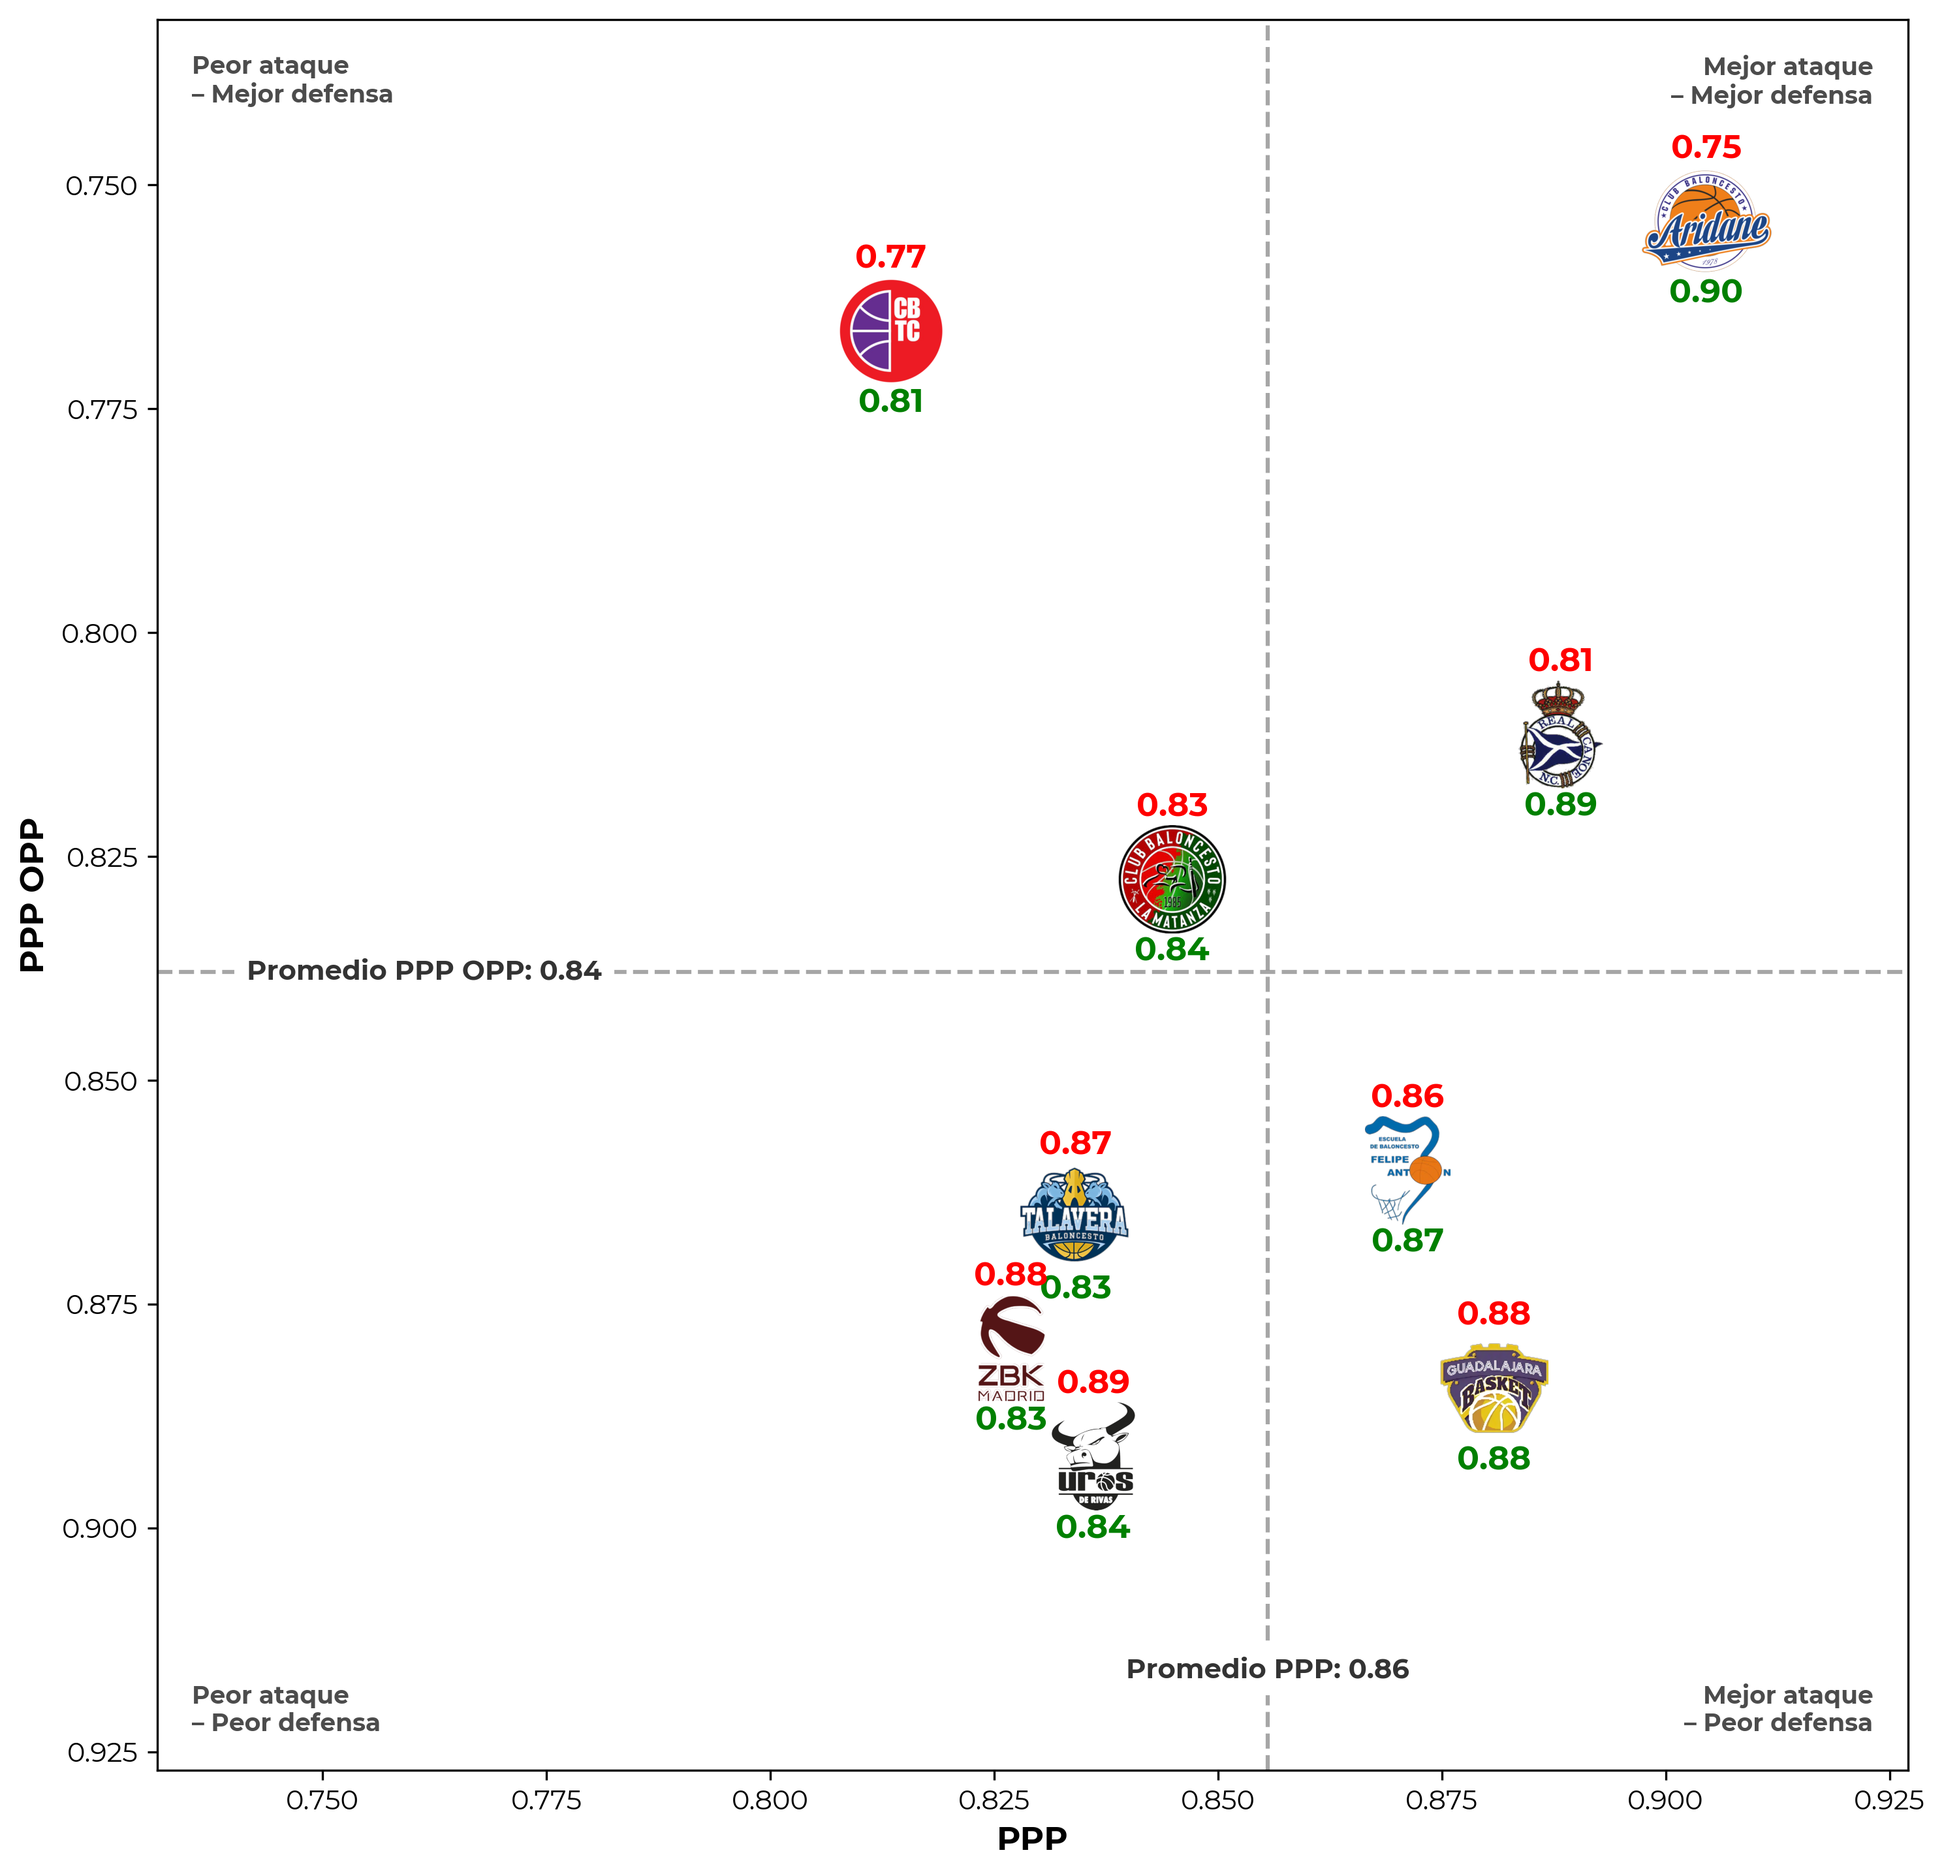
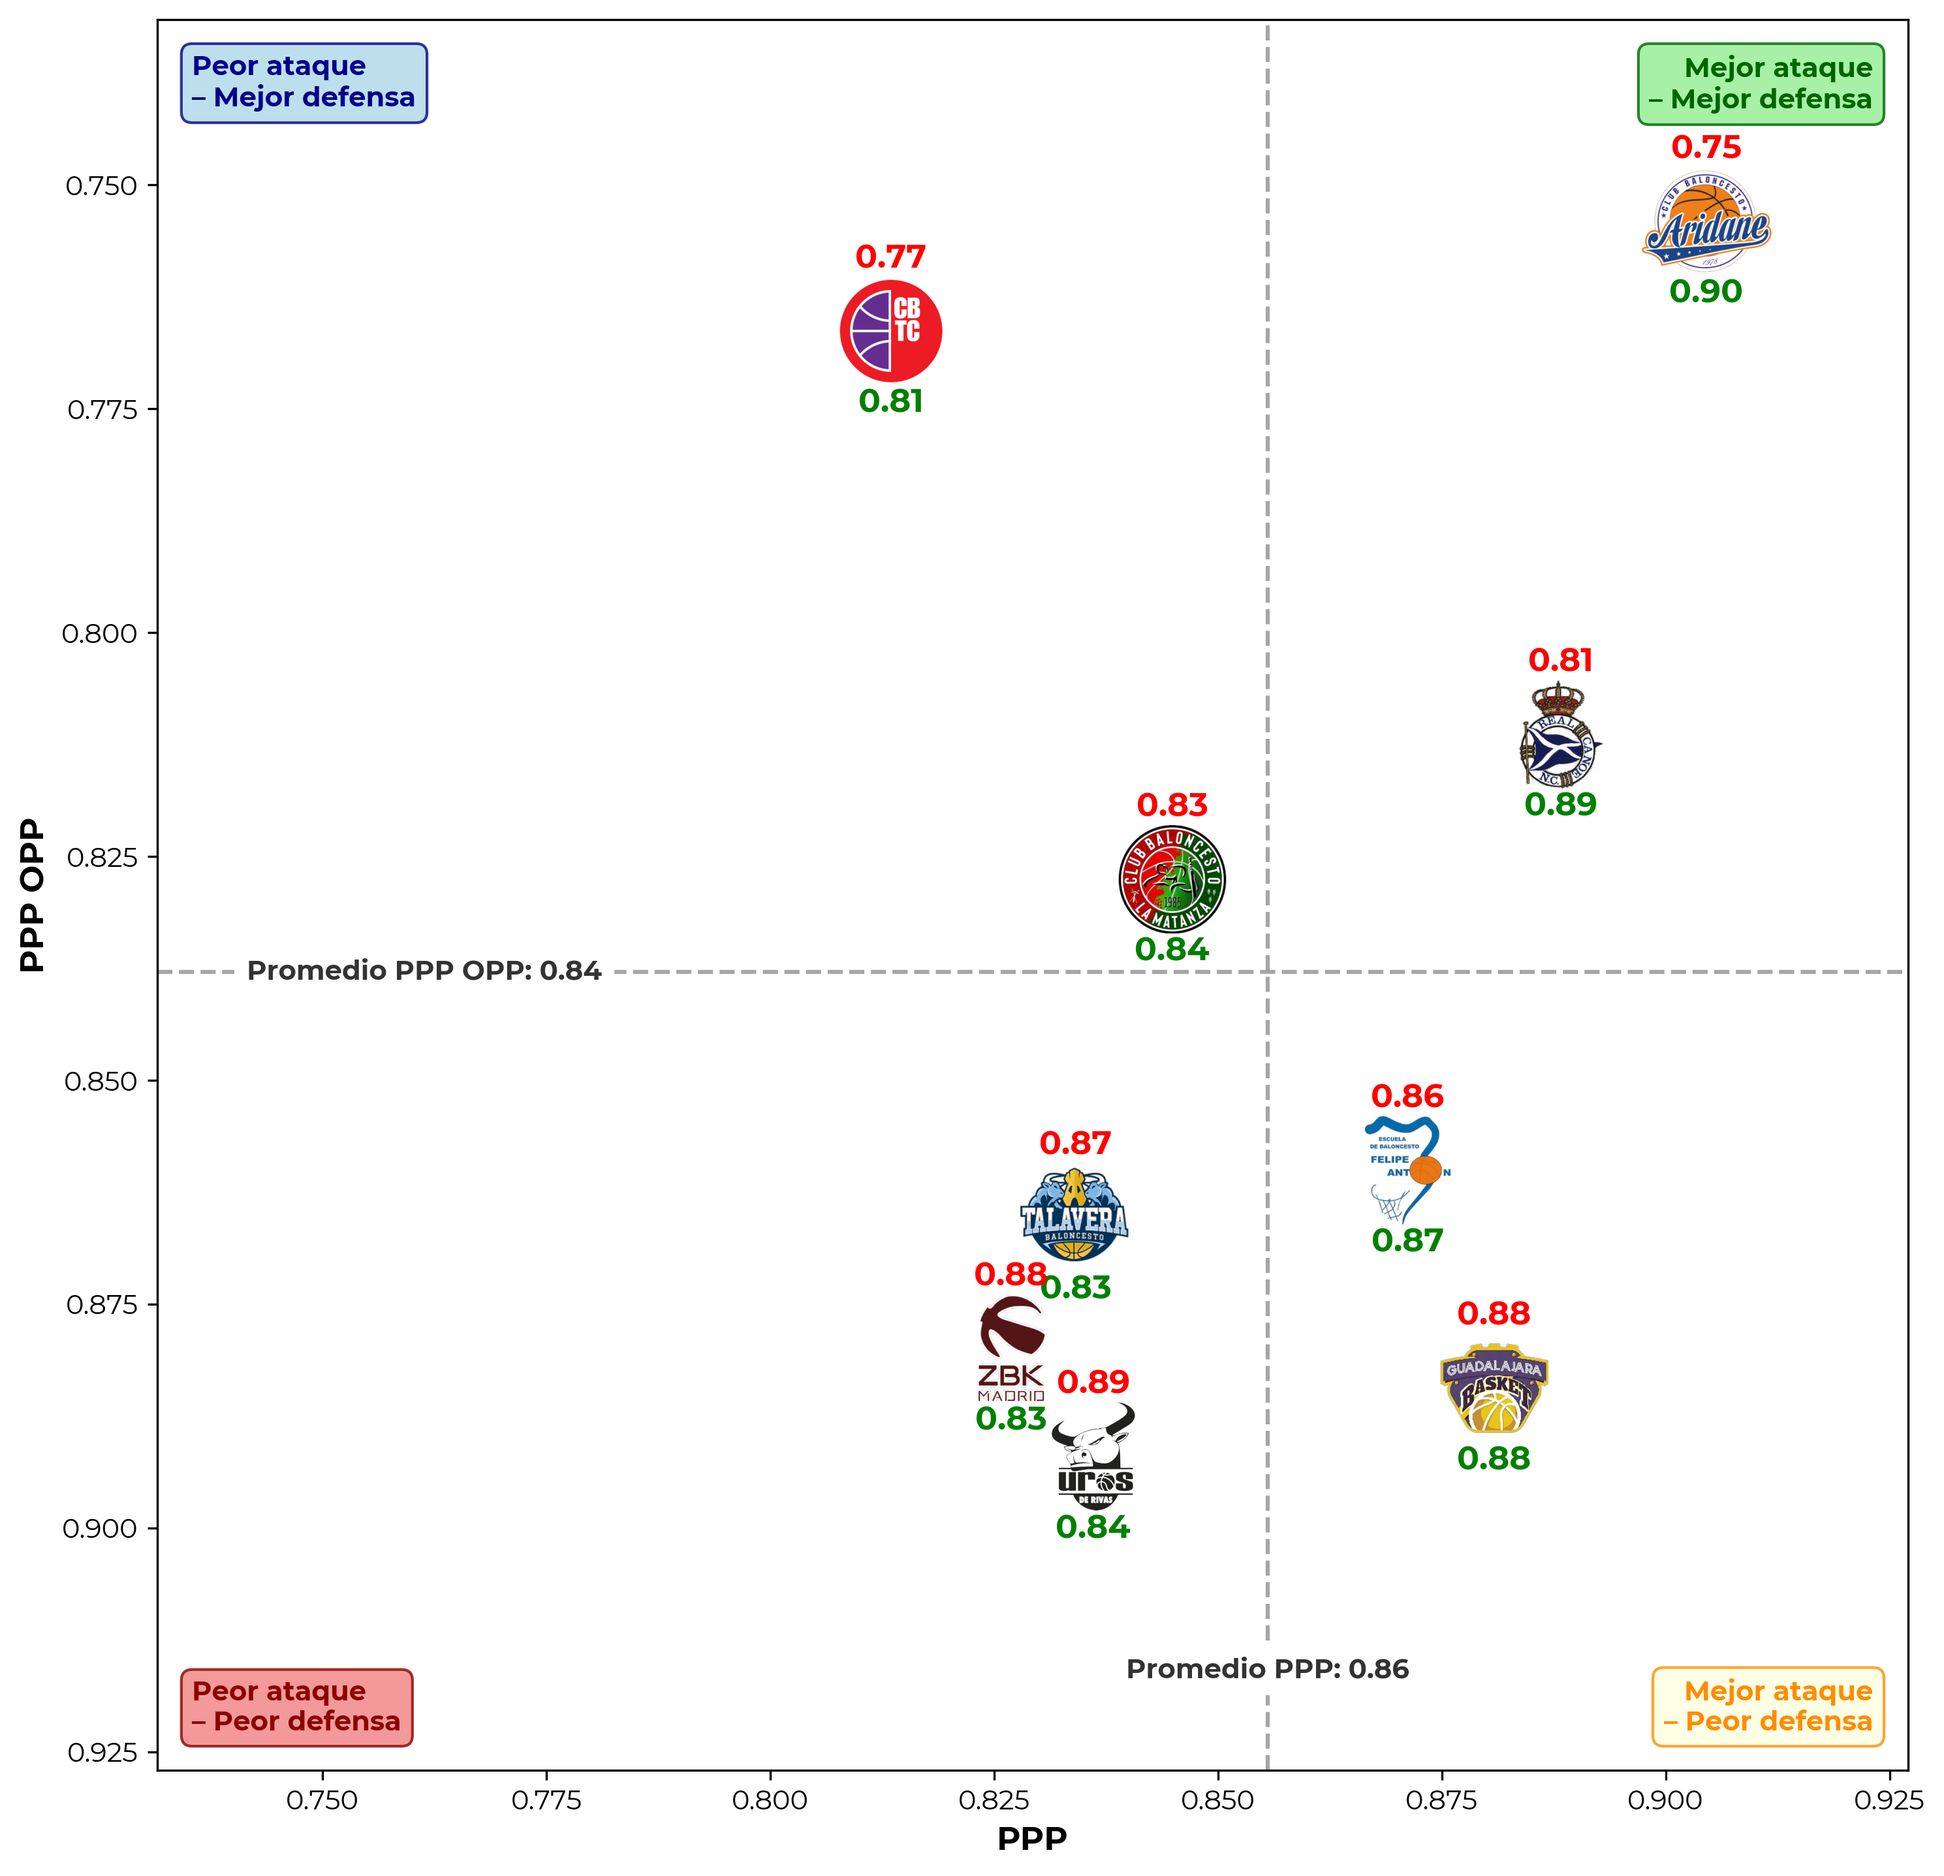
Refactor code structure for improved readability and maintainability

diff --git a/team_report/tools/rebound_analysis.py b/team_report/tools/rebound_analysis.py
@@ -1,0 +1,133 @@
+import os
+import textwrap
+import numpy as np
+import pandas as pd
+import matplotlib.pyplot as plt
+from matplotlib.patches import Patch
+from PIL import Image
+
+from utils import get_team_logo, setup_montserrat_font
+
+def generate_team_rebound_analysis(
+    df: pd.DataFrame,
+    teams: list[str] | None = None,
+    phase: str | None = None
+):
+    """
+    Gráfica de Análisis del Rebote (%) por equipo:
+    Para cada equipo, tres barras horizontales (una por %OREB, %REB, %DREB),
+    ejes de 0 a 1, con nombres y logos a la izquierda.
+    """
+    # Montserrat
+    setup_montserrat_font()
+
+    # Filtrar
+    if phase is not None:
+        df = df[df['FASE'] == phase]
+    if teams is not None:
+        df = df[df['EQUIPO'].isin(teams)]
+
+    # Agregar medias por equipo
+    stats = df.groupby('EQUIPO')[['%OREB','%REB','%DREB']].mean()
+    stats = stats.sort_values('EQUIPO', ascending=True)
+
+    # Wrapped team names
+    max_chars = 18
+    wrapped = {
+        team: '\n'.join(textwrap.wrap(team, max_chars))
+        for team in stats.index
+    }
+
+    # Colors & legend labels
+    metrics = ['%DREB','%REB','%OREB']
+    colors  = ['#3498DB','#E74C3C','#F39C12']  # naranja, rojo, azul
+    labels  = ['Rebote Ofensivo %','Rebotes Totales %','Rebote Defensivo %']
+
+    n = len(stats)
+    fig = plt.figure(figsize=(16, n*1.2))
+    gs = fig.add_gridspec(1,3, width_ratios=[1.0,0.6,4], wspace=0.02)
+
+    ax_text = fig.add_subplot(gs[0]); ax_text.axis('off')
+    ax_logo = fig.add_subplot(gs[1]); ax_logo.axis('off')
+    ax_bar  = fig.add_subplot(gs[2]); ax_bar.axis('off')
+
+    # Shared y-scale [0..n-1]
+    ax_text.set_ylim(-0.5, n-0.5)
+    ax_logo.set_ylim(-0.5, n-0.5)
+    ax_bar.set_ylim(-0.5, n-0.5)
+    # x-range fixed 0..1
+    ax_bar.set_xlim(0,1)
+
+    # Add vertical grid lines at every 10%
+    for x in [0.1, 0.2, 0.3, 0.4, 0.5, 0.6, 0.7, 0.8, 0.9]:
+        ax_bar.axvline(x, color='lightgray', linestyle='--', alpha=0.5, linewidth=1)
+
+    # Title + legend
+    fig.suptitle('Análisis del Rebote (%)', fontsize=32, weight='bold', y=0.96)
+    patches = [Patch(color=c,label=l) for c,l in zip(colors,labels)]
+    ax_bar.legend(handles=patches,
+                  loc='upper center',
+                  bbox_to_anchor=(0.5,1.05),
+                  ncol=3, frameon=False, fontsize=14)
+
+    # Bar settings
+    bar_height = 0.3  # Increased from 0.25 to make bars a little bit thicker
+    offsets = [ bar_height, 0, -bar_height ]  # three rows per team
+
+    # Plot each team
+    for i,(team,row) in enumerate(stats.iterrows()):
+        y_center = n-1-i
+
+        # 1) Team name
+        ax_text.text(0.01, y_center, wrapped[team],
+                     va='center', ha='left', fontsize=15)
+
+        # 2) Logo
+        logo = get_team_logo(team)
+        if logo is not None:
+            ar = logo.width/logo.height
+            h = 0.8  # height in data units
+            w = h*ar
+            pix_h = int(h*fig.dpi)
+            pix_w = int(w*fig.dpi)
+            logo_small = logo.resize((pix_w,pix_h), Image.Resampling.LANCZOS)
+            logo_arr = np.array(logo_small)
+            y0 = y_center - h/2
+            y1 = y_center + h/2
+            x0 = 0.5-w/2
+            x1 = 0.5+w/2
+            ax_logo.imshow(logo_arr, extent=[x0,x1,y0,y1], aspect='equal')
+
+        # 3) Three bars
+        for off, m, c in zip(offsets, metrics, colors):
+            y = y_center + off
+            val = row[m]
+            ax_bar.barh(y, val, height=bar_height*0.95, color=c, edgecolor='white')  # Increased from 0.9 to 0.95
+            # Move text inside the bar, positioned at 50% of bar width
+            ax_bar.text(val/2, y, f"{row[m]*100:.2f}%",
+                        va='center', ha='center', color='white', fontsize=14, weight='bold')  # Changed to white, centered, bold
+
+    plt.tight_layout()
+    return fig
+
+
+if __name__ == '__main__':
+    # Ejemplo de uso:
+    FILE = './data/teams_aggregated.xlsx'
+    MIS_EQUIPOS = ['BALONCESTO TALAVERA', 'C.B. TRES CANTOS', 'CB ARIDANE',
+                   'CB LA MATANZA', 'EB FELIPE ANTÓN', 'LUJISA GUADALAJARA BASKET',
+                   'REAL CANOE N.C.', 'UROS DE RIVAS', 'ZENTRO BASKET MADRID'
+    ]
+
+    FASE = "Liga Regular \"B-A\""
+    df = pd.read_excel(FILE)
+
+    board = generate_team_rebound_analysis(df, teams=MIS_EQUIPOS, phase=None)
+    # save the figure
+    board.savefig('rebound_analysis.png', 
+              bbox_inches='tight', 
+              dpi=300,                    # High resolution
+              facecolor='white',          # White background
+              edgecolor='none',           # No edge color
+              format='png')               # PNG format
+

diff --git a/team_report/tools/ppp_quadrant.py b/team_report/tools/ppp_quadrant.py
@@ -102,43 +102,56 @@ def draw_ppp_quadrant(
                  fontsize=12, fontweight='bold')  # Increased font size
 
 
-    # 6) Etiquetas en las 4 esquinas
+    # 6) Etiquetas en las 4 esquinas - IMPROVED STYLING
     x_min, x_max = ax.get_xlim()
     y_min, y_max = ax.get_ylim()
     pad_x = (x_max - x_min) * 0.02
     pad_y = (y_max - y_min) * 0.02
     
-    tag_font_size = 9
+    tag_font_size = 10
 
+    # Top-left: Poor offense, Good defense (Mixed - Light Blue)
     ax.text(
         x_min + pad_x, y_max - pad_y,
         "Peor ataque\n– Mejor defensa",
         va='top', ha='left',
-        fontsize= tag_font_size,
+        fontsize=tag_font_size,
         fontweight='bold',
-        backgroundcolor='white',
-        alpha=0.7
+        bbox=dict(boxstyle='round,pad=0.4', facecolor='lightblue', alpha=0.8, edgecolor='darkblue'),
+        color='darkblue'
     )
+    
+    # Top-right: Good offense, Good defense (Excellent - Light Green)
     ax.text(
         x_max - pad_x, y_max - pad_y,
         "Mejor ataque\n– Mejor defensa",
         va='top', ha='right',
-        fontsize=tag_font_size, fontweight='bold',
-        backgroundcolor='white', alpha=0.7
+        fontsize=tag_font_size, 
+        fontweight='bold',
+        bbox=dict(boxstyle='round,pad=0.4', facecolor='lightgreen', alpha=0.8, edgecolor='darkgreen'),
+        color='darkgreen'
     )
+    
+    # Bottom-left: Poor offense, Poor defense (Bad - Light Red)
     ax.text(
         x_min + pad_x, y_min + pad_y,
         "Peor ataque\n– Peor defensa",
         va='bottom', ha='left',
-        fontsize=tag_font_size, fontweight='bold',
-        backgroundcolor='white', alpha=0.7
+        fontsize=tag_font_size, 
+        fontweight='bold',
+        bbox=dict(boxstyle='round,pad=0.4', facecolor='lightcoral', alpha=0.8, edgecolor='darkred'),
+        color='darkred'
     )
+    
+    # Bottom-right: Good offense, Poor defense (Mixed - Light Yellow)
     ax.text(
         x_max - pad_x, y_min + pad_y,
         "Mejor ataque\n– Peor defensa",
         va='bottom', ha='right',
-        fontsize=tag_font_size, fontweight='bold',
-        backgroundcolor='white', alpha=0.7
+        fontsize=tag_font_size, 
+        fontweight='bold',
+        bbox=dict(boxstyle='round,pad=0.4', facecolor='lightyellow', alpha=0.8, edgecolor='darkorange'),
+        color='darkorange'
     )
 
     # 7) Etiquetas de ejes

diff --git a/team_report/tools/top_shooters.py b/team_report/tools/top_shooters.py
@@ -269,7 +269,7 @@ def plot_top_shooters(
     
     # Top-left quadrant (Low TS%, High eFG%)
     ax.text(x_min + padding_x, y_max - padding_y,
-            'eFG% alto – TS% bajo →\nnumerosos triples, pocos FT',
+            'eFG% alto – TS% bajo →\nnumerosos TC, pocos FT',
             fontsize=10, fontweight='bold',
             ha='left', va='top',
             bbox=dict(boxstyle='round,pad=0.3', facecolor='lightblue', alpha=0.7),
@@ -277,7 +277,7 @@ def plot_top_shooters(
     
     # Top-right quadrant (High TS%, High eFG%)
     ax.text(x_max - padding_x, y_max - padding_y,
-            'Ambos altos →\nnivel récord de\nanotación por tiro',
+            'Ambos altos →\nnivel alto de\nanotación por tiro',
             fontsize=10, fontweight='bold',
             ha='right', va='top',
             bbox=dict(boxstyle='round,pad=0.3', facecolor='lightgreen', alpha=0.7),

diff --git a/player_report/player_report_gen.py b/player_report/player_report_gen.py
@@ -1,4 +1,4 @@
-E# -*- coding: utf-8 -*-
+# -*- coding: utf-8 -*-
 """
 Generador automático de informes individuales – modo Notebook y CLI
 =====================================================================
